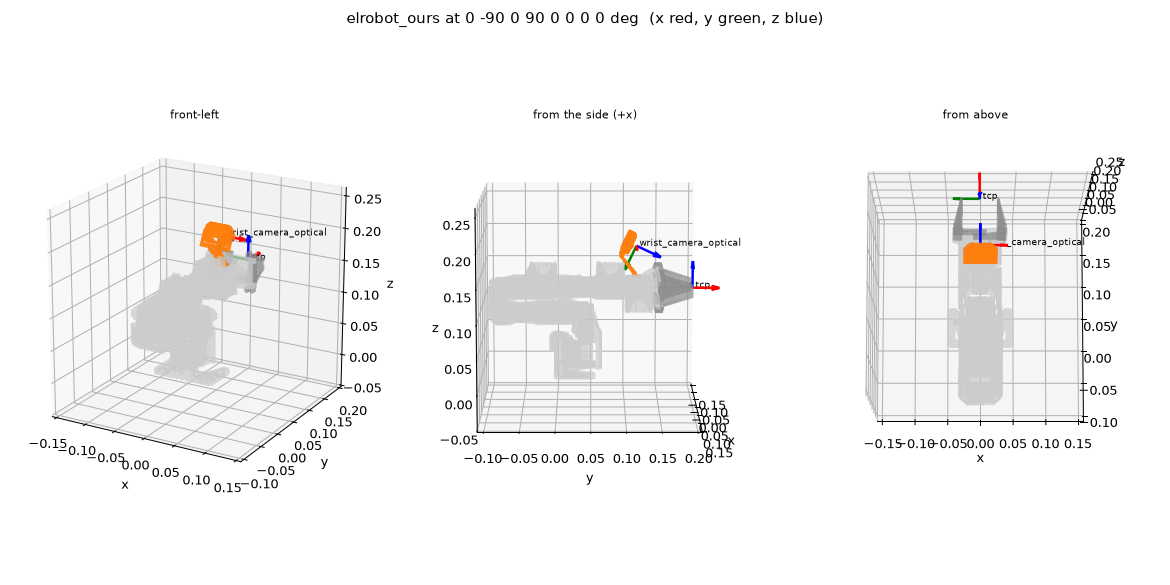
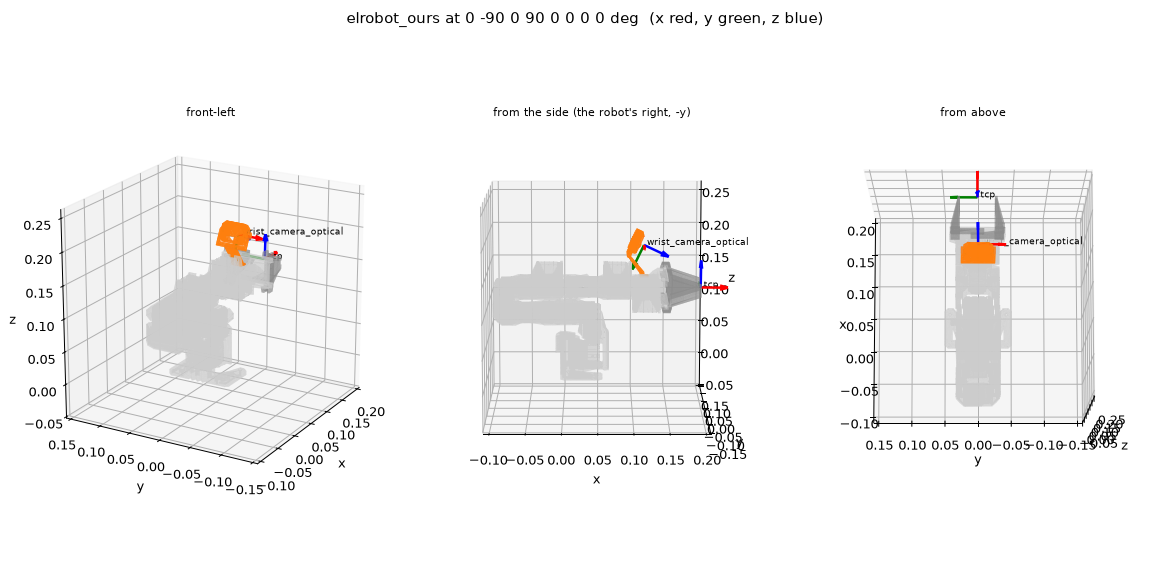
URDF: base_link is REP-103 (x forward, y left, z up)
Upstream's base_link has the arm reaching along +y. make_description.py now
renames it base_body and hangs it under a new, empty base_link by a fixed
joint turned -90 deg about z. No joint, origin or angle of the arm changes:
only the frame every pose is written in (FK, IK targets, the target ring's
poses, recordings, the dashboard, Astra). The TCP and camera frames keep
their place on the arm; at the zero pose the TCP's axes are now the base
axes.

- profile / defaults: [teleop] base_forward = [1, 0, 0]; Astra's TaskFrame
  becomes the identity (kept, driven by base_forward / base_up).
- dashboard and render.py: the default views turned with the frame, so they
  look as before; reference renders regenerated.
- tests that wrote the old axes (description, IK tabletop circle, phone row,
  teleop e2e span, dashboard mesh) now say the same in the new ones; a new
  test pins the convention and that the arm hangs off base_body as upstream's.
- elrobot/kinematics.py defaults to the UPSTREAM URDF: unchanged.

Claude-Session: https://claude.ai/code/session_01JwSFPWAtjKQRzoPeyxombY

diff --git a/elrobot_deploy/src/elrobot_deploy/dashboard/static/app.js b/elrobot_deploy/src/elrobot_deploy/dashboard/static/app.js
@@ -17,9 +17,9 @@ renderer.setPixelRatio(window.devicePixelRatio);
 const scene = new THREE.Scene();
 scene.background = new THREE.Color(0x0f1216);
 const camera = new THREE.PerspectiveCamera(40, 1, 0.01, 10);
-camera.position.set(0.55, -0.35, 0.45);
+camera.position.set(-0.35, -0.55, 0.45);   // behind-right of the arm, looking forward
 const controls = new OrbitControls(camera, canvas);
-controls.target.set(0, 0.17, 0.12);
+controls.target.set(0.17, 0, 0.12);
 controls.update();
 // Render only when something changed (a new state, the camera moved, a toggle): the Mac running
 // the arm should not spend a core redrawing an unchanged scene 60 times a second.
@@ -29,12 +29,12 @@ controls.addEventListener('change', redraw);
 
 scene.add(new THREE.HemisphereLight(0xffffff, 0x223344, 1.6));
 const sun = new THREE.DirectionalLight(0xffffff, 1.6);
-sun.position.set(0.5, -0.4, 1.0);
+sun.position.set(-0.4, -0.5, 1.0);
 scene.add(sun);
 const grid = new THREE.GridHelper(1.0, 20, 0x3a4652, 0x232c35);
 grid.rotation.x = Math.PI / 2;                 // into the table plane (z = 0)
 scene.add(grid);
-const axes = new THREE.AxesHelper(0.06);       // base frame: x red, y green (forward), z blue
+const axes = new THREE.AxesHelper(0.06);       // base frame: x red (forward), y green (left), z blue
 scene.add(axes);
 
 function resize() {

diff --git a/description/elrobot_ours/make_description.py b/description/elrobot_ours/make_description.py
@@ -9,6 +9,9 @@ Inputs (re-run after any recalibration; nothing generated is edited by hand):
   printed/camera_mount_yoke_facet_*.stl        the printed camera mount, in print orientation
 
 What changes against upstream:
+  0. base_link            REP-103: x forward (where the arm reaches at the zero pose), y left, z up.
+                          Upstream's base_link (+y forward) is renamed base_body and hangs under a
+                          new, empty base_link turned -90 deg about z. No joint moves.
   1. joint limits         the calibrated safe ranges (measured ends minus elrobot/calibration.py's margins)
   2. gripper jaws         frames moved onto the jaws (upstream's sit ~0.3 m away), and the jaw/gear
                           ratio scaled so the jaw tips meet at our measured closed stop
@@ -377,6 +380,29 @@ def calibrated_limits() -> tuple[dict[int, tuple[float, float]], float]:
 
 # --- build ------------------------------------------------------------------------------------
 
+#: Upstream's base link, renamed: the base's mesh, in upstream's axes (+y forward, x right).
+BASE_BODY = "base_body"
+
+
+def rebase(root) -> None:
+    """Make `base_link` REP-103: x forward, y left, z up. Upstream's `base_link` has the arm
+    reaching along +y at the zero pose (x to the robot's right); it is renamed `base_body` and
+    attached to a new, empty `base_link` by a fixed joint turned -90 deg about z, so that
+    `x_new = y_old`, `y_new = -x_old`. Every other frame keeps its place on the arm."""
+    old = root.find("link[@name='base_link']")
+    for el in root.iter():
+        if el.tag in ("parent", "child") and el.get("link") == "base_link":
+            el.set("link", BASE_BODY)
+    old.set("name", BASE_BODY)
+    at = list(root).index(old)
+    joint = ET.Element("joint", name=f"{BASE_BODY}_joint", type="fixed")
+    ET.SubElement(joint, "origin", xyz="0 0 0", rpy=f"0 0 {-math.pi / 2!r}")      # exact
+    ET.SubElement(joint, "parent", link="base_link")
+    ET.SubElement(joint, "child", link=BASE_BODY)
+    root.insert(at, joint)
+    root.insert(at, ET.Element("link", name="base_link"))
+
+
 def _fixed_child(root, name: str, parent: str, T: np.ndarray, inertial=None):
     link = ET.SubElement(root, "link", name=name)
     if inertial is not None:
@@ -406,6 +432,9 @@ def build() -> dict:
 
     for mesh in root.iter("mesh"):
         mesh.set("filename", f"{UPSTREAM_ASSETS}/{Path(mesh.get('filename')).name}")
+
+    # 0. base_link to REP-103 (x forward, y left, z up)
+    rebase(root)
 
     # 1. limits
     limits, closed = calibrated_limits()

diff --git a/tests/test_description.py b/tests/test_description.py
@@ -66,9 +66,9 @@ def test_mount_feet_sit_on_the_base_holes(upstream):
 def test_camera_looks_forward_and_down_at_zero_pose(robot):
     T = robot.fk({}, "wrist_camera_optical")
     view, right = T[:3, 2], T[:3, 0]
-    assert view[1] > 0.85                                       # along the arm (+y)
+    assert view[0] > 0.85                                       # along the arm (+x)
     assert math.degrees(math.asin(-view[2])) == pytest.approx(md.VIEW_TILT_DEG, abs=2)
-    assert right[0] > 0.99                                      # image right = the robot's right (+x)
+    assert right[1] < -0.99                                     # image right = the robot's right (-y)
     tcp = robot.fk({}, "tcp")[:3, 3]
     assert T[2, 3] > tcp[2] + 0.04                              # it sits above the gripper
 
@@ -111,9 +111,23 @@ def test_jaws_meet_at_the_closed_stop(robot):
 
 def test_tcp_axes_out_left_up_at_zero_pose(robot):
     R = robot.fk({}, "tcp")[:3, :3]
-    assert R[:, 0] @ [0, 1, 0] > 0.99                           # x out of the jaws (+y)
-    assert R[:, 1] @ [-1, 0, 0] > 0.99                          # y left (-x)
+    assert R[:, 0] @ [1, 0, 0] > 0.99                           # x out of the jaws (forward)
+    assert R[:, 1] @ [0, 1, 0] > 0.99                           # y left
     assert R[:, 2] @ [0, 0, 1] > 0.99                           # z up
+
+
+def test_base_link_is_rep103_and_upstreams_base_hangs_under_it(robot, urdf, upstream):
+    """x forward (where the arm reaches at the zero pose), y left, z up; upstream's base link
+    is `base_body`, turned -90 deg about z; the arm hangs off it exactly as upstream's."""
+    assert robot.root == "base_link"
+    assert robot.fk({}, "tcp")[:3, 3] @ [1, 0, 0] > 0.3          # reaches forward, along +x
+    T = robot.fk({}, md.BASE_BODY)
+    np.testing.assert_allclose(T[:3, :3], [[0, 1, 0], [-1, 0, 0], [0, 0, 1]], atol=1e-12)
+    ours = {j.get("name"): j.find("origin").attrib for j in urdf.findall("joint")
+            if j.find("parent").get("link") == md.BASE_BODY}
+    theirs = {j.get("name"): j.find("origin").attrib for j in upstream.findall("joint")
+              if j.find("parent").get("link") == "base_link"}
+    assert ours == theirs and ours
 
 
 def test_arm_chain_unchanged_from_upstream(urdf, upstream):

diff --git a/elrobot_deploy/src/elrobot_deploy/astra/frames.py b/elrobot_deploy/src/elrobot_deploy/astra/frames.py
@@ -2,9 +2,10 @@
 
 What Astra sees (docs/astra.md, "Conventions"):
 
-    base frame   x forward, y left, z up (REP-103). The runtime's `base_link` has +y forward
-                 (`[teleop] base_forward`), so Astra's base frame is `base_link` turned 90 deg
-                 about z: same origin, same up. `TaskFrame` converts.
+    base frame   x forward, y left, z up (REP-103): `base_link` itself (our URDF's, since
+                 2026-10-18). `TaskFrame` maps `[teleop] base_forward / base_up` onto it, the
+                 identity with the shipped profile; it stays so that a description with other
+                 axes needs only those two keys.
     virtual TCP  the URDF's `tcp` link: x out of the jaws (the approach direction), y the
                  jaw-opening direction, z = x cross y. At the URDF zero pose its axes ARE the
                  base frame's (roll = pitch = yaw = 0); at home it is pitched 45 deg down.
@@ -98,7 +99,7 @@ class TaskFrame:
     frame. The TCP's own axes never change: only the frame they are written in.
     """
 
-    def __init__(self, base_forward=(0.0, 1.0, 0.0), base_up=(0.0, 0.0, 1.0)):
+    def __init__(self, base_forward=(1.0, 0.0, 0.0), base_up=(0.0, 0.0, 1.0)):
         f = np.asarray(base_forward, dtype=np.float64)
         u = np.asarray(base_up, dtype=np.float64)
         f, u = f / np.linalg.norm(f), u / np.linalg.norm(u)

diff --git a/elrobot_deploy/tests/test_tcp_qp.py b/elrobot_deploy/tests/test_tcp_qp.py
@@ -34,8 +34,8 @@ def _tabletop_target(p, pitch_deg):
     a = np.radians(pitch_deg)
     T = np.eye(4)
     T[:3, 3] = p
-    x = np.array([0.0, np.cos(a), -np.sin(a)])
-    y = np.array([-1.0, 0.0, 0.0])
+    x = np.array([np.cos(a), 0.0, -np.sin(a)])
+    y = np.array([0.0, 1.0, 0.0])
     T[:3, :3] = np.c_[x, y, np.cross(x, y)]
     return T
 
@@ -133,16 +133,17 @@ def test_budget_runs_out(solver, robot):
 
 def test_tracks_a_tabletop_circle(solver):
     """The usual case: gripper pitched down, a 5 cm circle at 0.5 Hz, 60 Hz ticks."""
-    T0 = _tabletop_target([0.0, 0.30, 0.05], 60)
+    T0 = _tabletop_target([0.30, 0.0, 0.05], 60)
     q, err = _settle(T0)
     assert err < 2e-4
     errs = []
-    for plane in ("xz", "xy"):
+    for plane in ("side-up", "forward-side"):
         for k in range(240):
             t = k / 60
             c, s = np.cos(np.pi * t) - 1, np.sin(np.pi * t)
             T = T0.copy()
-            T[:3, 3] += 0.05 * (np.array([c, 0, s]) if plane == "xz" else np.array([c, s, 0]))
+            T[:3, 3] += 0.05 * (np.array([0, -c, s]) if plane == "side-up"
+                                else np.array([s, -c, 0]))
             q, err, ok = solver.solve(T, q)
             assert ok
             errs.append(solver.tcp_error(T))

diff --git a/elrobot_deploy/src/elrobot_deploy/robot/elrobot_model.py b/elrobot_deploy/src/elrobot_deploy/robot/elrobot_model.py
@@ -18,7 +18,8 @@ What is changed on the way in, and why:
   * **meshes are passed in memory**, keyed by file name, so the URDF's relative paths
     (`../elrobot_upstream/assets/...`) need no working-directory games.
 
-Conventions: the base frame is `base_link` (z up, the arm reaches along +y at zero). Poses are
+Conventions: the base frame is `base_link`, REP-103: x forward (where the arm reaches at the zero
+pose), y left, z up (`make_description.py` step 0). Poses are
 `[x y z qw qx qy qz]`, as everywhere in elrobot_deploy. Joint vectors are the 7 arm joints in
 order, `rev_motor_01` (base yaw) to `rev_motor_07` (wrist roll), in radians, in the URDF's
 convention (`calibration/calibration.json` maps servo readings onto it).

diff --git a/elrobot_deploy/tests/test_teleop_e2e.py b/elrobot_deploy/tests/test_teleop_e2e.py
@@ -76,8 +76,8 @@ def test_the_phone_drives_the_simulated_arm():
         seen["states"][-2:] == ["engaged", "idle"], seen["states"]
     tcp = np.asarray(seen["tcp"])
     span = tcp.max(0) - tcp.min(0)
-    # The phone circled 3 cm in the operator's left/up plane: base x (left/right) and z (up).
-    assert span[0] == pytest.approx(0.06, abs=0.012), span
+    # The phone circled 3 cm in the operator's left/up plane: base y (left) and z (up).
+    assert span[1] == pytest.approx(0.06, abs=0.012), span
     assert span[2] == pytest.approx(0.06, abs=0.012), span
     # One press and one release: the counter ended even, after at least one engagement.
     assert seen["counter"] >= 2 and seen["counter"] % 2 == 0

diff --git a/elrobot_deploy/tests/test_dashboard.py b/elrobot_deploy/tests/test_dashboard.py
@@ -75,7 +75,8 @@ def test_the_server_serves_the_page_the_robot_and_the_meshes(server):
                  "/static/vendor/three/STLLoader.js"):
         assert get(base + path)[0] == 200, path
     robot = json.loads(get(base + "/api/robot")[2])
-    first = robot["links"]["base_link"]["visuals"][0]["mesh"]
+    assert robot["root"] == "base_link"                  # an empty frame: x forward, y left
+    first = robot["links"]["base_body"]["visuals"][0]["mesh"]
     status, ctype, body = get(base + first)
     assert status == 200 and len(body) > 1000
     assert json.loads(get(base + "/api/state")[2])["live"]

diff --git a/description/elrobot_ours/render.py b/description/elrobot_ours/render.py
@@ -62,7 +62,10 @@ def main(argv=None) -> int:
     robot = Robot(OUT_URDF)
 
     fig = plt.figure(figsize=(13, 6.5))
-    views = [(20, -60, "front-left"), (10, 0, "from the side (+x)"), (80, -90, "from above")]
+    # base_link is REP-103 (x forward, y left): the same three views as before step 0 of
+    # make_description.py, each turned with the frame.
+    views = [(20, -150, "front-left"), (10, -90, "from the side (the robot's right, -y)"),
+             (80, -180, "from above")]
     pts_all = []
     meshes = []
     for link, T_vis, path, scale in visuals(OUT_URDF):

diff --git a/elrobot_deploy/src/elrobot_deploy/runtime/processes/p9_record.py b/elrobot_deploy/src/elrobot_deploy/runtime/processes/p9_record.py
@@ -342,7 +342,7 @@ class Recorder:
                 for name in self.cams},
             "joints": list(JOINT_NAMES),
             "units": {"q": "rad", "deadline / t / t_capture": "s, time.monotonic of this Mac",
-                      "pose": "x y z m, qw qx qy qz, base_link (+y forward, +z up)",
+                      "pose": "x y z m, qw qx qy qz, base_link (x forward, y left, z up)",
                       "load": "fraction of stall torque, signed", "gripper": "servo rad"},
             "config": jsonable(self.cfg),
             "code": self.code,

diff --git a/elrobot_deploy/tests/test_phone.py b/elrobot_deploy/tests/test_phone.py
@@ -100,7 +100,7 @@ def test_rows_carry_the_motion_since_the_press_in_robot_axes(active):
     engage(ph)
     ph.send(0.02 * FWD + 0.01 * UP, engage=True)
     row = rings["intervene"].newest(1)
-    assert np.allclose(row.delta[:3], [0.0, 0.02, 0.01], atol=1e-9)   # base: +y fwd, +z up
+    assert np.allclose(row.delta[:3], [0.02, 0.0, 0.01], atol=1e-9)   # base: +x fwd, +z up
     # Pinned at the press (one frame earlier) + the lead, then the phone's own clock.
     assert row.deadline == pytest.approx(ph.recv + loop.cfg.teleop.lead_s, abs=1e-6)
 

diff --git a/elrobot_deploy/src/elrobot_deploy/config_loading/config.py b/elrobot_deploy/src/elrobot_deploy/config_loading/config.py
@@ -84,7 +84,7 @@ class TeleopConfig:
     max_step_m: float = 0.05
     max_step: float = math.radians(30.0)                # rad
     phone_forward: tuple = (-1.0, 0.0, 0.0)             # device axis, ARKit camera frame
-    base_forward: tuple = (0.0, 1.0, 0.0)
+    base_forward: tuple = (1.0, 0.0, 0.0)
     base_up: tuple = (0.0, 0.0, 1.0)
     #: An optional box (base frame, m) the TCP is clamped into; None = none (the default).
     workspace_min: tuple | None = None
